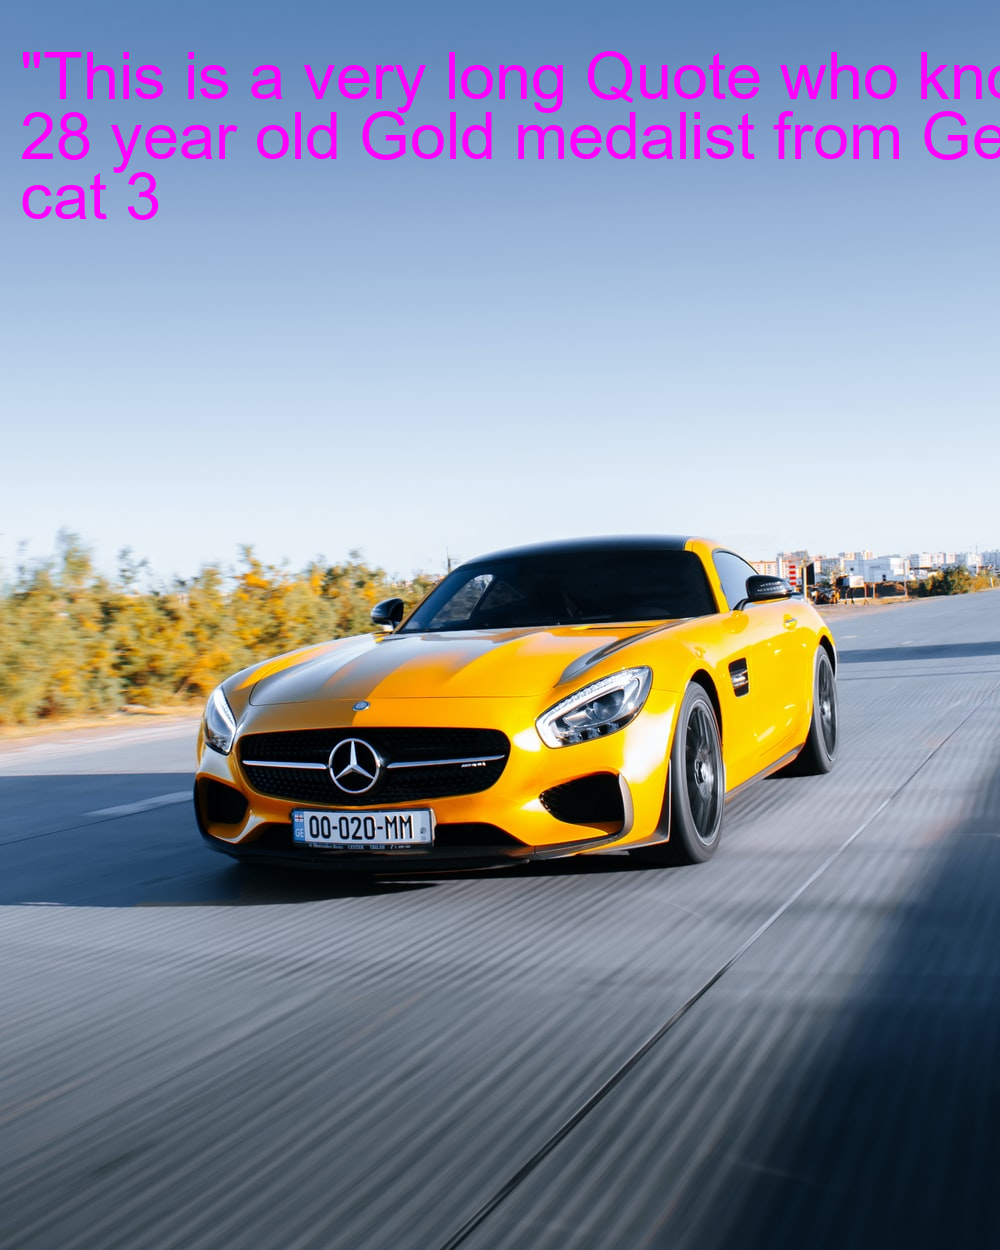
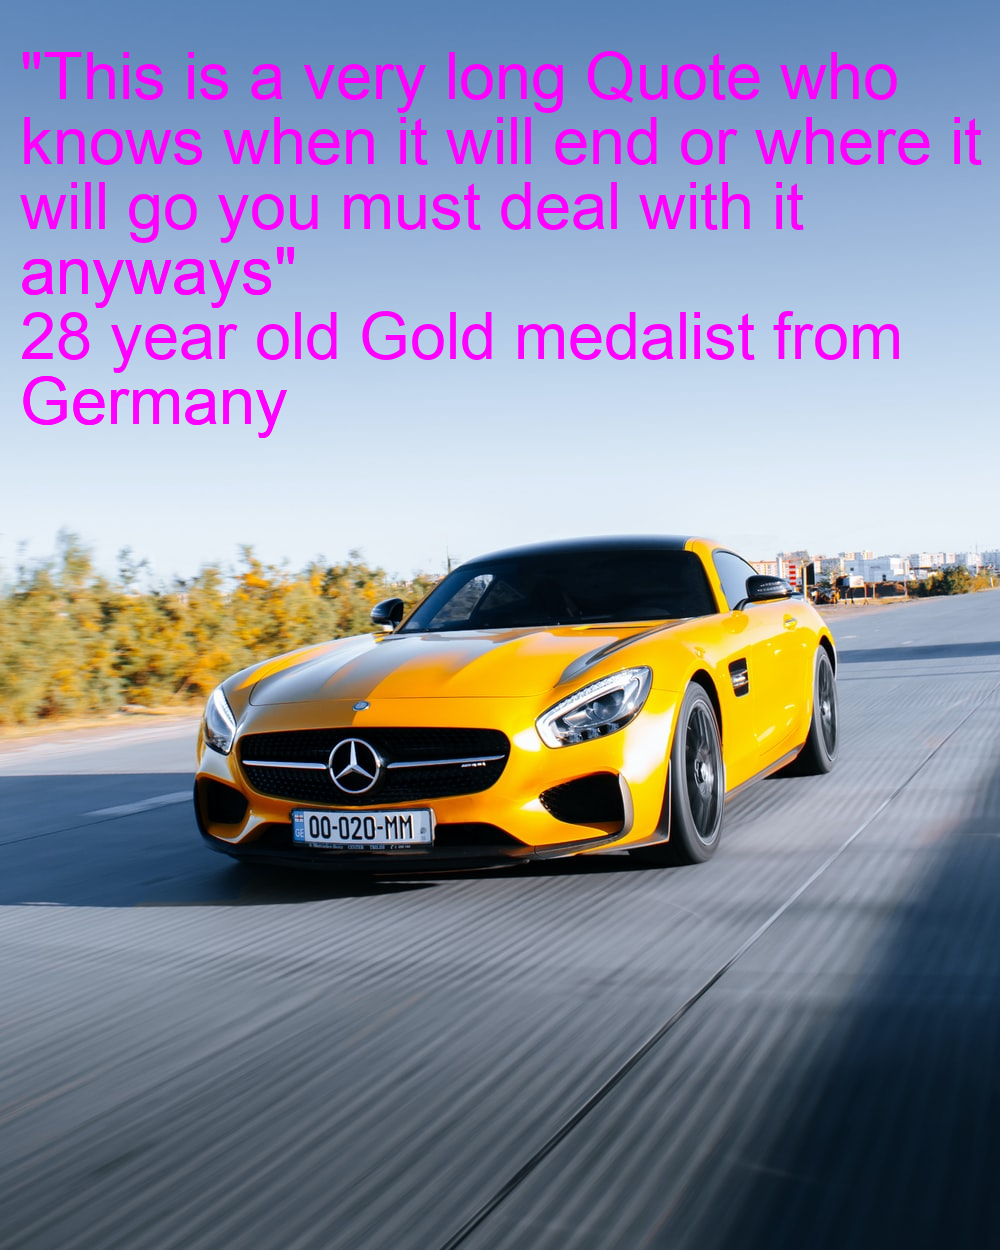
auto newline

Changed region(s): [[0.0, 0.0312, 1.0, 0.3432]]

diff --git a/imageProcessor.py b/imageProcessor.py
@@ -17,24 +17,41 @@ def drawWords(text, x, y, R, G, B, size):   #doubled text writer to work with bo
         fontType = "arial"              #"arial" for Windows, "Arial" for Mac
         myFont = ImageFont.truetype(fontType, size)
 
-        size = myFont.getsize(text)
-
-        distanceRight = x+size[0]
-
+        textsize = myFont.getsize(text)
+        distanceRight = x+textsize[0]
         if (distanceRight > img.width):
             newText = text.split()
             printString = ""
-            print(newText)
+            #print(newText)
             sum = x
-            for a in newText:
-                printString += a
-                wordsize = myFont.getsize(printString)
 
+            for a in range(len(newText)):
+                printString += newText[a]
+                printString += " "
+                wordsize = myFont.getsize(printString)[0] + 10
+                #print(wordsize)
+                #sum = sum + myFont.getsize(a)[0]
+                
+                if a!=len(newText)-1:
+                    if wordsize + myFont.getsize(newText[a+1])[0] > img.width:
+                        textPosition = (x, y) # (x, y) from top left
+                        fontColour = (R,G,B) #rgb colour values
+                        I1.text(textPosition, printString, font=myFont, fill =fontColour)
 
+                        y=y+size
+                        printString = ""
+                else: 
+                    #if wordsize + myFont.getsize(newText[a+1])[0] > img.width:
+                        textPosition = (x, y) # (x, y) from top left
+                        fontColour = (R,G,B) #rgb colour values
+                        I1.text(textPosition, printString, font=myFont, fill =fontColour)
 
+                        y=y+size
+                        printString = ""
+                        I1.text(textPosition, newText[len(newText)-1], font=myFont, fill =fontColour)
 
+            
 
-        print(size)
 
 
         textPosition = (x, y) # (x, y) from top left
@@ -45,18 +62,58 @@ def drawWords(text, x, y, R, G, B, size):   #doubled text writer to work with bo
         I1 = ImageDraw.Draw(img)
         # Custom font style and font size
         #myFont = ImageFont.load_default()
-        fontType = "Arial"              #"arial" for Windows, "Arial" for Mac
+        fontType = "Arial"              # "arial" for Windows, "Arial" for Mac
         myFont = ImageFont.truetype(fontType, size)
-        textPosition = (x, y) # (x, y) from top left
-        fontColour = (R,G,B) #rgb colour values
-        I1.text(textPosition, text, font=myFont, fill =fontColour)
+
+        
+        textsize = myFont.getsize(text)
+        distanceRight = x+textsize[0]
+        if (distanceRight > img.width):
+            newText = text.split()
+            printString = ""
+            #print(newText)
+            sum = x
+
+            for a in range(len(newText)):
+                printString += newText[a]
+                printString += " "
+                wordsize = myFont.getsize(printString)[0] + 10
+                #print(wordsize)
+                #sum = sum + myFont.getsize(a)[0]
+                
+                if a!=len(newText)-1:
+                    if wordsize + myFont.getsize(newText[a+1])[0] > img.width:
+                        textPosition = (x, y) # (x, y) from top left
+                        fontColour = (R,G,B) #rgb colour values
+                        I1.text(textPosition, printString, font=myFont, fill =fontColour)
+
+                        y=y+size
+                        printString = ""
+                else: 
+                    #if wordsize + myFont.getsize(newText[a+1])[0] > img.width:
+                        textPosition = (x, y) # (x, y) from top left
+                        fontColour = (R,G,B) #rgb colour values
+                        I1.text(textPosition, printString, font=myFont, fill =fontColour)
+
+                        y=y+size
+                        printString = ""
+                        I1.text(textPosition, newText[len(newText)-1], font=myFont, fill =fontColour)
+
+
+
+        
+        
+        
+        
+        
+        
 
         
 
 #draw 3 simple magentas lines from the text
 drawWords(Lines[0], 20, 40, 255, 0, 255, 65)
-drawWords(Lines[1], 20, 100, 255, 0, 255, 65)
-drawWords(Lines[2], 20, 160, 255, 0, 255, 65)
+drawWords(Lines[1], 20, 300, 255, 0, 255, 65)
+#drawWords(Lines[2], 20, 280, 255, 0, 255, 65)
 
 
 img.show()  #temporarily shows the created image
